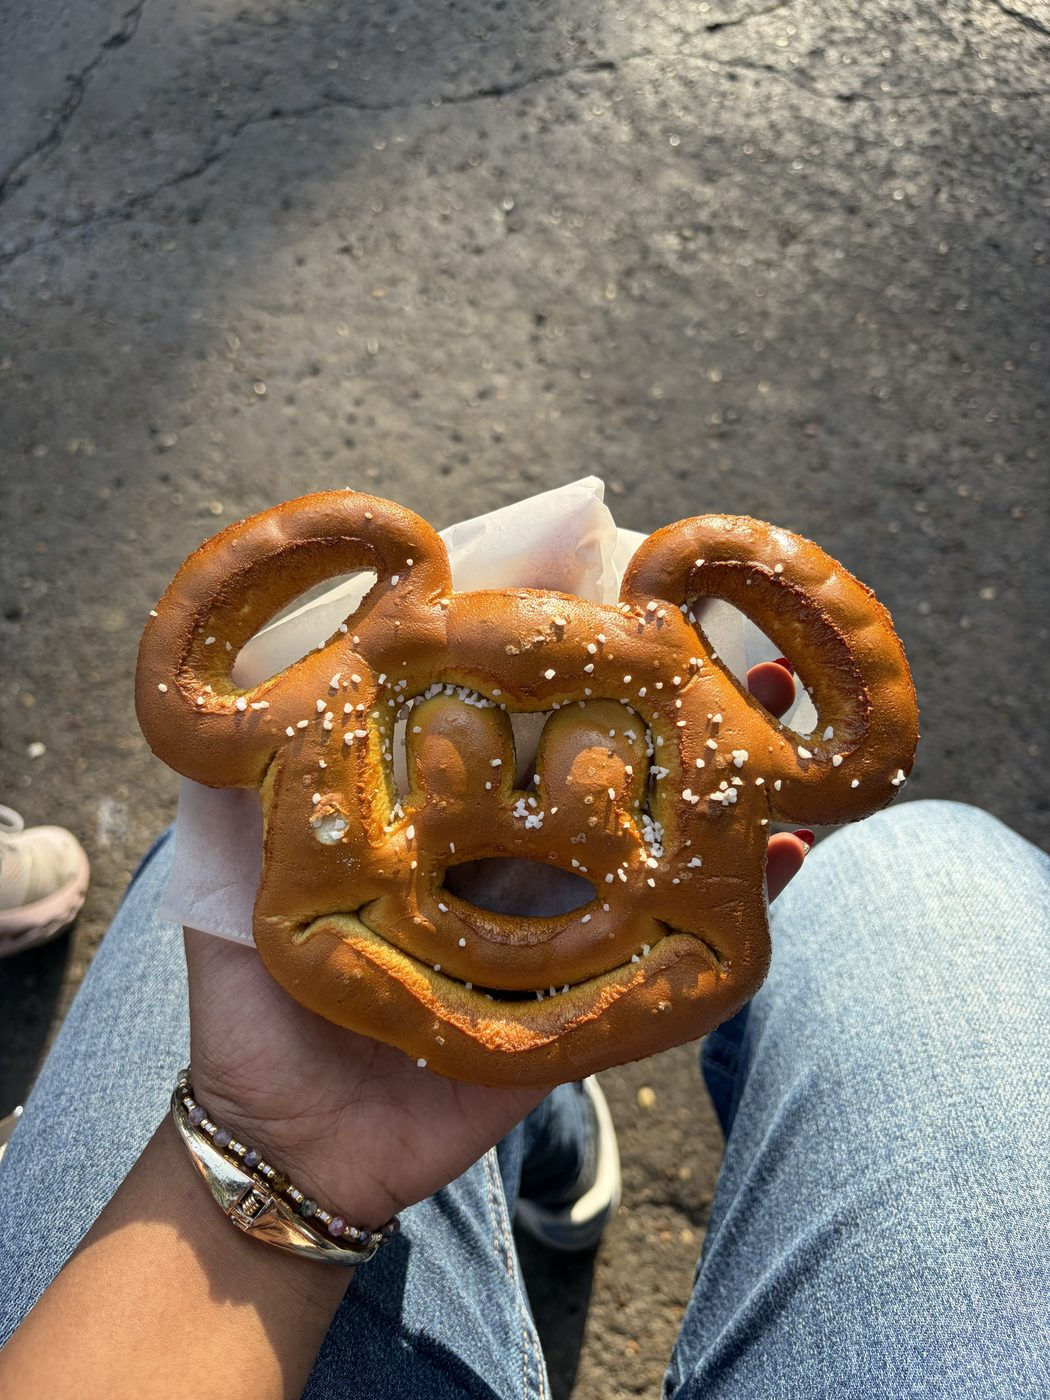
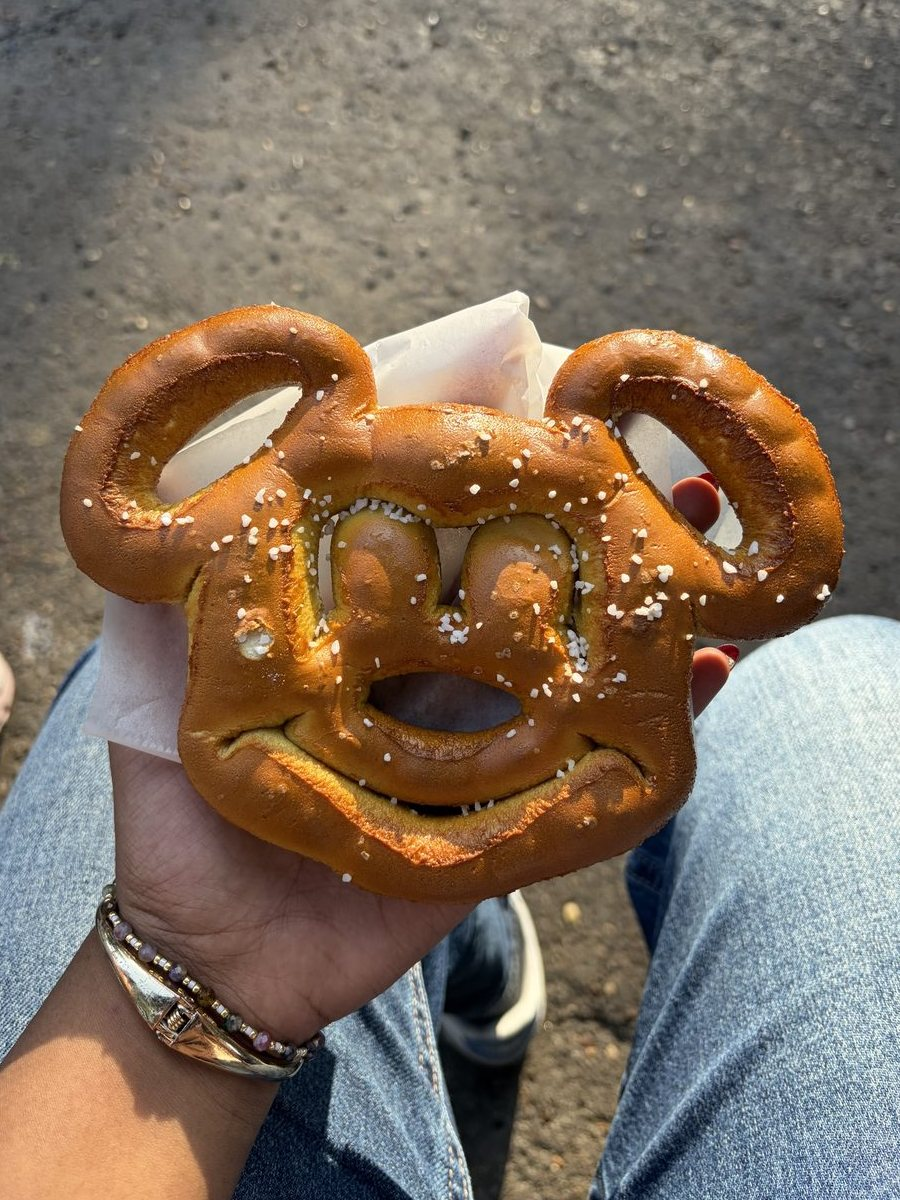
Turn food and henna galleries into carousels; add food captions with links; recrop pretzel and cafe photos

diff --git a/index.html b/index.html
@@ -11,7 +11,7 @@
   <meta property="og:image" content="https://adhyamaddukuri.github.io/assets/me.jpg">
   <meta property="og:url" content="https://adhyamaddukuri.github.io/">
   <link rel="icon" href="favicon.svg" type="image/svg+xml">
-  <link rel="stylesheet" href="styles.css?v=21">
+  <link rel="stylesheet" href="styles.css?v=24">
 </head>
 <body>
   <a class="skip" href="#main">Skip to content</a>
@@ -241,22 +241,51 @@
         <article class="hobby">
           <h3>Avid Foodie</h3>
           <p>I love finding new places to eat and trying as many cuisines as I can, from hole-in-the-wall spots to sit-down dinners.</p>
-          <div class="gallery food" data-hobby="food">
-            <button type="button" class="shot" data-full="assets/hobbies/food-1.jpg" aria-label="Enlarge: Korean barbecue spread with grilled meats and banchan"><img src="assets/hobbies/food-1.jpg" alt="Korean barbecue spread with grilled meats and banchan" loading="lazy"></button>
-            <button type="button" class="shot" data-full="assets/hobbies/food-2.jpg" aria-label="Enlarge: A mouse-ear shaped soft pretzel"><img src="assets/hobbies/food-2.jpg" alt="A mouse-ear shaped soft pretzel" loading="lazy"></button>
-            <button type="button" class="shot" data-full="assets/hobbies/food-3.jpg" aria-label="Enlarge: Red velvet waffle, chips and salsa on a sunny patio"><img src="assets/hobbies/food-3.jpg" alt="Red velvet waffle, chips and salsa on a sunny patio" loading="lazy"></button>
+          <div class="carousel" aria-label="Food photos">
+            <button type="button" class="car-btn prev" aria-label="Previous photo" hidden>‹</button>
+            <div class="track" tabindex="0">
+              <figure class="slide">
+                <button type="button" class="slide-btn" data-full="assets/hobbies/food-1.jpg?v=2" aria-label="Enlarge: Korean barbecue spread with grilled meats and banchan"><img src="assets/hobbies/food-1.jpg?v=2" alt="Korean barbecue spread with grilled meats and banchan" loading="lazy"></button>
+                <figcaption><a href="https://genkoreanbbq.com/" target="_blank" rel="noopener">Gen Korean BBQ ↗</a></figcaption>
+              </figure>
+              <figure class="slide">
+                <button type="button" class="slide-btn" data-full="assets/hobbies/food-2.jpg?v=2" aria-label="Enlarge: A mouse-ear shaped soft pretzel"><img src="assets/hobbies/food-2.jpg?v=2" alt="A mouse-ear shaped soft pretzel" loading="lazy"></button>
+                <figcaption><a href="https://disneyland.disney.go.com/" target="_blank" rel="noopener">Disneyland ↗</a></figcaption>
+              </figure>
+              <figure class="slide">
+                <button type="button" class="slide-btn" data-full="assets/hobbies/food-3.jpg?v=2" aria-label="Enlarge: Red velvet waffle, chips and salsa on a sunny patio"><img src="assets/hobbies/food-3.jpg?v=2" alt="Red velvet waffle, chips and salsa on a sunny patio" loading="lazy"></button>
+                <figcaption><a href="https://walnutavenuecafe.com/" target="_blank" rel="noopener">Walnut Avenue Cafe, Santa Cruz ↗</a></figcaption>
+              </figure>
+            </div>
+            <button type="button" class="car-btn next" aria-label="Next photo">›</button>
           </div>
         </article>
         <article class="hobby">
           <h3>Henna Artist</h3>
           <p>I draw henna by hand, from simple florals to detailed full-hand designs. Paisleys, mandalas, and fine linework are my favorite to create.</p>
-          <div class="gallery henna" data-hobby="henna">
-            <button type="button" class="shot" data-full="assets/hobbies/henna-1.jpg" aria-label="Enlarge: Fine floral henna linework across the back of a hand and fingers"><img src="assets/hobbies/henna-1.jpg" alt="Fine floral henna linework across the back of a hand and fingers" loading="lazy"></button>
-            <button type="button" class="shot" data-full="assets/hobbies/henna-2.jpg?v=2" aria-label="Enlarge: Red-stained palm henna with layered florals, a paisley, and patterned fingertips"><img src="assets/hobbies/henna-2.jpg?v=2" alt="Red-stained palm henna with layered florals, a paisley, and patterned fingertips" loading="lazy"></button>
-            <button type="button" class="shot" data-full="assets/hobbies/henna-3.jpg" aria-label="Enlarge: Bold floral henna in the center of a palm with a leafy vine up one finger"><img src="assets/hobbies/henna-3.jpg" alt="Bold floral henna in the center of a palm with a leafy vine up one finger" loading="lazy"></button>
-            <button type="button" class="shot" data-full="assets/hobbies/henna-4.jpg?v=2" aria-label="Enlarge: Back-of-hand henna with large layered florals, a beaded arc, and fingertip vines"><img src="assets/hobbies/henna-4.jpg?v=2" alt="Back-of-hand henna with large layered florals, a beaded arc, and fingertip vines" loading="lazy"></button>
-            <button type="button" class="shot" data-full="assets/hobbies/henna-5.jpg" aria-label="Enlarge: A single shaded lily in henna on a forearm"><img src="assets/hobbies/henna-5.jpg" alt="A single shaded lily in henna on a forearm" loading="lazy"></button>
-            <button type="button" class="shot" data-full="assets/hobbies/henna-6.jpg" aria-label="Enlarge: Bold rose henna running from the wrist up the hand, with leafy vines and dotted trails on the fingers"><img src="assets/hobbies/henna-6.jpg" alt="Bold rose henna running from the wrist up the hand, with leafy vines and dotted trails on the fingers" loading="lazy"></button>
+          <div class="carousel" aria-label="Henna photos">
+            <button type="button" class="car-btn prev" aria-label="Previous photo" hidden>‹</button>
+            <div class="track" tabindex="0">
+              <figure class="slide">
+                <button type="button" class="slide-btn" data-full="assets/hobbies/henna-1.jpg" aria-label="Enlarge: Fine floral henna linework across the back of a hand and fingers"><img src="assets/hobbies/henna-1.jpg" alt="Fine floral henna linework across the back of a hand and fingers" loading="lazy"></button>
+              </figure>
+              <figure class="slide">
+                <button type="button" class="slide-btn" data-full="assets/hobbies/henna-2.jpg?v=2" aria-label="Enlarge: Red-stained palm henna with layered florals, a paisley, and patterned fingertips"><img src="assets/hobbies/henna-2.jpg?v=2" alt="Red-stained palm henna with layered florals, a paisley, and patterned fingertips" loading="lazy"></button>
+              </figure>
+              <figure class="slide">
+                <button type="button" class="slide-btn" data-full="assets/hobbies/henna-4.jpg?v=2" aria-label="Enlarge: Back-of-hand henna with large layered florals, a beaded arc, and fingertip vines"><img src="assets/hobbies/henna-4.jpg?v=2" alt="Back-of-hand henna with large layered florals, a beaded arc, and fingertip vines" loading="lazy"></button>
+              </figure>
+              <figure class="slide">
+                <button type="button" class="slide-btn" data-full="assets/hobbies/henna-3.jpg" aria-label="Enlarge: Bold floral henna in the center of a palm with a leafy vine up one finger"><img src="assets/hobbies/henna-3.jpg" alt="Bold floral henna in the center of a palm with a leafy vine up one finger" loading="lazy"></button>
+              </figure>
+              <figure class="slide">
+                <button type="button" class="slide-btn" data-full="assets/hobbies/henna-5.jpg" aria-label="Enlarge: A single shaded lily in henna on a forearm"><img src="assets/hobbies/henna-5.jpg" alt="A single shaded lily in henna on a forearm" loading="lazy"></button>
+              </figure>
+              <figure class="slide">
+                <button type="button" class="slide-btn" data-full="assets/hobbies/henna-6.jpg" aria-label="Enlarge: Bold rose henna running from the wrist up the hand, with leafy vines and dotted trails on the fingers"><img src="assets/hobbies/henna-6.jpg" alt="Bold rose henna running from the wrist up the hand, with leafy vines and dotted trails on the fingers" loading="lazy"></button>
+              </figure>
+            </div>
+            <button type="button" class="car-btn next" aria-label="Next photo">›</button>
           </div>
         </article>
       </div>
@@ -289,6 +318,20 @@
       lbImg.src = btn.dataset.full; lbImg.alt = btn.querySelector('img').alt; lb.showModal();
     }));
     lb.addEventListener('click', () => lb.close());
+    document.querySelectorAll('.carousel').forEach(c => {
+      const track = c.querySelector('.track'), prev = c.querySelector('.prev'), next = c.querySelector('.next');
+      const update = () => {
+        prev.hidden = track.scrollLeft < 4;
+        next.hidden = track.scrollLeft + track.clientWidth > track.scrollWidth - 4;
+      };
+      const step = dir => track.scrollBy({ left: dir * track.clientWidth * 0.8, behavior: 'smooth' });
+      prev.addEventListener('click', () => step(-1));
+      next.addEventListener('click', () => step(1));
+      track.addEventListener('scroll', update, { passive: true });
+      window.addEventListener('resize', update);
+      track.querySelectorAll('img').forEach(img => img.complete ? update() : img.addEventListener('load', update));
+      update();
+    });
   </script>
 </body>
 </html>

diff --git a/styles.css b/styles.css
@@ -238,26 +238,31 @@ body::before {
 .hobbies { display: grid; gap: 1.5rem; grid-template-columns: repeat(auto-fit, minmax(min(100%, 24rem), 1fr)); margin-top: 1.5rem; }
 .hobby { background: var(--surface); border: 1px solid var(--line); border-radius: var(--radius); padding: 1.5rem; }
 .hobby > p { color: var(--muted); font-size: .95rem; }
-.gallery { display: grid; gap: .6rem; grid-template-columns: repeat(3, 1fr); margin-top: 1rem; }
-.gallery:empty { display: none; }
-.gallery .shot { aspect-ratio: 1; }
-.gallery .shot img { object-position: center; }
 .section-lede { max-width: none; text-wrap: balance; }
-.gallery.henna { grid-template-columns: repeat(3, 1fr); grid-template-rows: repeat(2, auto); }
-.gallery.henna .shot:first-child { grid-row: span 2; aspect-ratio: auto; }
-.gallery .shot img { height: 100%; }
 p { text-wrap: pretty; }
 .hobby { display: flex; flex-direction: column; }
-.hobby .gallery { flex: 1; }
-@media (min-width: 58rem) {
-  .gallery.food { grid-template-rows: 1fr; }
-  .gallery.food .shot { aspect-ratio: auto; height: 100%; min-height: 12rem; }
+.hobby /* Photo carousels */
+.carousel { position: relative; margin-top: 1.1rem; }
+.track {
+  display: flex; gap: .75rem; overflow-x: auto; scroll-snap-type: x mandatory; scroll-behavior: smooth;
+  scrollbar-width: none; overscroll-behavior-x: contain; border-radius: 10px;
 }
-/* Henna: tall photo on each end, four small in the middle */
-.gallery.henna { grid-template-columns: repeat(4, 1fr); }
-.gallery.henna .shot:first-child { grid-column: 1; grid-row: 1 / span 2; }
-.gallery.henna .shot:last-child { grid-column: 4; grid-row: 1 / span 2; aspect-ratio: auto; }
-@media (max-width: 40rem) {
-  .gallery.henna { grid-template-columns: repeat(3, 1fr); }
-  .gallery.henna .shot:first-child, .gallery.henna .shot:last-child { grid-column: auto; grid-row: auto; aspect-ratio: 1; }
+.track::-webkit-scrollbar { display: none; }
+.track:focus-visible { outline: 2px solid var(--accent); outline-offset: 3px; }
+.slide { flex: 0 0 auto; margin: 0; scroll-snap-align: start; display: flex; flex-direction: column; gap: .45rem; }
+.slide-btn { display: block; padding: 0; border: 1px solid var(--line); border-radius: 10px; overflow: hidden; background: none; cursor: zoom-in; }
+.slide-btn:hover { border-color: var(--accent); }
+.slide img { display: block; height: clamp(15rem, 24vw, 22rem); width: auto; max-width: 80vw; object-fit: cover; }
+.slide figcaption { font-size: .82rem; text-align: center; }
+.slide figcaption a { color: var(--accent); font-weight: 600; text-decoration: none; }
+.slide figcaption a:hover { text-decoration: underline; }
+.car-btn {
+  position: absolute; top: calc(clamp(15rem, 24vw, 22rem) / 2); transform: translateY(-50%); z-index: 2;
+  width: 2.4rem; height: 2.4rem; border-radius: 50%; border: 1px solid var(--line);
+  background: color-mix(in srgb, var(--surface) 88%, transparent); color: var(--text);
+  font-size: 1.5rem; line-height: 1; cursor: pointer; box-shadow: 0 4px 14px rgb(0 0 0 / .3);
 }
+.car-btn:hover { border-color: var(--accent); color: var(--accent); }
+.car-btn.prev { left: -.6rem; }
+.car-btn.next { right: -.6rem; }
+@media (hover: none) { .car-btn { display: none; } }
